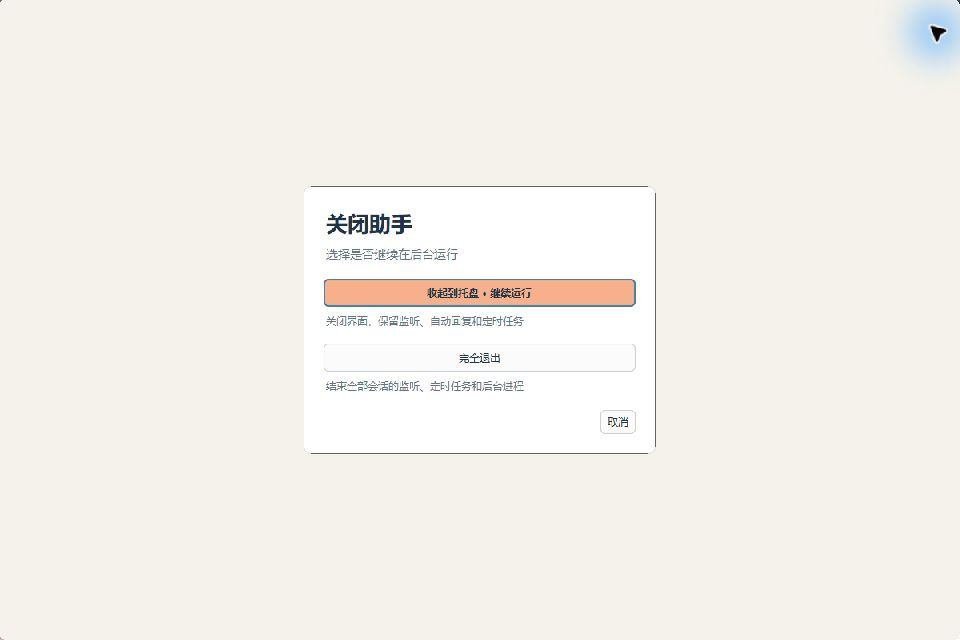
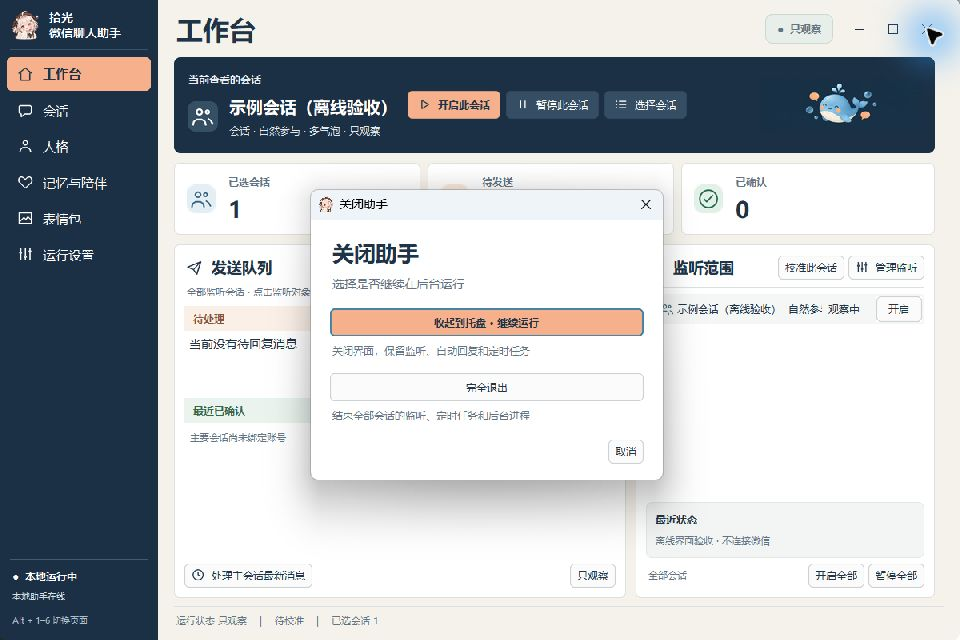
Release v0.2.16: independent close dialog preserves the main page

diff --git a/xiaomao/feedback_ui.py b/xiaomao/feedback_ui.py
@@ -1,4 +1,4 @@
-"""In-window action feedback. Never activates a window or interrupts typing."""
+"""Passive action feedback and a user-invoked, owned close dialog."""
 import re
 import tkinter as tk
 from time import monotonic
@@ -6,16 +6,20 @@ from tkinter import ttk
 from .workspace_ui import PAPER, GREEN, INK, LINE, button, label
 
 
-class CloseChoice(tk.Frame):
-    """In-window close chooser; cancellation never changes worker state."""
+class CloseChoice(tk.Toplevel):
+    """Small owned window; the underlying page and worker stay unchanged."""
     def __init__(self,root,*,background_available=True):
-        from .workspace_ui import BG,MUTED,card
-        super().__init__(root,bg=BG)
+        from .workspace_ui import MUTED
+        super().__init__(root,bg=PAPER)
+        self.withdraw()
+        self.title('关闭助手')
+        self.transient(root)
+        self.resizable(False,False)
         self.result=None;self._job=None;self._closing=False
         self.previous_focus=root.focus_get()
         self.previous_grab=root.grab_current()
-        self.place(relwidth=1,relheight=1);self.lift()
-        box=self.box=card(self,pad=24,radius=9)
+        box=self.box=tk.Frame(self,bg=PAPER,padx=24,pady=20)
+        box.pack(fill='both',expand=True)
         box.columnconfigure(0,weight=1)
         label(box,'关闭助手',20,bold=True).grid(row=0,column=0,sticky='w')
         label(box,'选择是否继续在后台运行',11,color=MUTED).grid(row=1,column=0,sticky='w',pady=(5,18))
@@ -29,9 +33,18 @@ class CloseChoice(tk.Frame):
         label(box,'结束全部会话的监听、定时任务和后台进程',10,color=MUTED,wraplength=370).grid(row=5,column=0,sticky='w',pady=(5,18))
         self.cancel_button=button(box,'取消',lambda:self.choose(None),compact=True)
         self.cancel_button.grid(row=6,column=0,sticky='e')
-        box.place(relx=.5,rely=.5,anchor='center',width=440,y=12)
-        self._escape=root.bind('<Escape>',lambda _:(self.choose(None),'break')[1],add='+')
+        self.protocol('WM_DELETE_WINDOW',lambda:self.choose(None))
+        self.bind('<Escape>',lambda _:(self.choose(None),'break')[1])
         self.bind('<Destroy>',self._destroyed,add='+')
+        self.update_idletasks()
+        width=max(440,self.winfo_reqwidth());height=self.winfo_reqheight()
+        x=root.winfo_rootx()+(root.winfo_width()-width)//2
+        y=root.winfo_rooty()+(root.winfo_height()-height)//2
+        self.geometry(f'{width}x{height}{x:+d}{y:+d}')
+        self._fade=True
+        try:self.attributes('-alpha',0.)
+        except tk.TclError:self._fade=False
+        self.deiconify()
         self.grab_set()
         (self.background_button if background_available else self.cancel_button).focus_set()
         self.started=monotonic();self._animate()
@@ -39,8 +52,9 @@ class CloseChoice(tk.Frame):
     def _animate(self):
         self._job=None
         fraction=min(1.,(monotonic()-self.started)/.13)
-        self.box.place_configure(y=round(12*(1-fraction)**3))
-        if fraction<1:self._job=self.after(16,self._animate)
+        if self._fade:
+            self.attributes('-alpha',1-(1-fraction)**3)
+            if fraction<1:self._job=self.after(16,self._animate)
 
     def choose(self,value):
         if self._closing:return
@@ -50,7 +64,6 @@ class CloseChoice(tk.Frame):
     def _destroyed(self,event):
         if event.widget is not self:return
         if self._job is not None:self.after_cancel(self._job)
-        self.master.unbind('<Escape>',self._escape)
         if self.grab_current() is self:self.grab_release()
         if self.previous_grab is not None and self.previous_grab.winfo_exists():self.previous_grab.grab_set()
         if self.previous_focus is not None and self.previous_focus.winfo_exists():self.previous_focus.focus_set()

diff --git a/tests/test_panel.py b/tests/test_panel.py
@@ -165,6 +165,29 @@ def test_close_dialog_escape_cancels_and_missing_tray_disables_background(native
     finally:root.destroy()
 
 
+def test_close_choice_is_small_owned_window_and_leaves_page_visible(native_root):
+    import tkinter as tk
+    from xiaomao.feedback_ui import CloseChoice
+    root=tk.Toplevel(native_root);root.geometry('1000x740+3200+1800')
+    page=tk.Frame(root);page.pack(fill='both',expand=True)
+    original=tk.Entry(page);original.pack();original.insert(0,'未保存的页面内容')
+    root.update();before=root.geometry()
+    try:
+        dialog=CloseChoice(root);root.update()
+        assert dialog.winfo_toplevel() is dialog
+        assert str(dialog.transient())==str(root)
+        assert root.geometry()==before and page.winfo_ismapped()
+        assert original.get()=='未保存的页面内容'
+        assert 400<=dialog.winfo_width()<=520
+        assert 250<=dialog.winfo_height()<=450
+        assert abs(dialog.winfo_rootx()+dialog.winfo_width()/2-root.winfo_rootx()-root.winfo_width()/2)<15
+        root.tk.call(dialog.protocol('WM_DELETE_WINDOW'));root.update()
+        assert dialog.result is None and not dialog.winfo_exists()
+        assert root.winfo_exists() and page.winfo_ismapped()
+        assert root.grab_current() is None
+    finally:root.destroy()
+
+
 @pytest.mark.parametrize('discard',[True,False])
 def test_explicit_exit_confirms_unsaved_session_changes(tmp_path,monkeypatch,discard):
     p,events=panel(tmp_path)

diff --git a/README.md b/README.md
@@ -10,9 +10,9 @@
 
 模块化人格的颜文字参考扩充为 13 类、208 个，按近期本会话已发内容避开重复画法，保留同类情绪与正文，不给没有颜文字的回复强行追加。支持把参考库加入自定义人格；原人格模块和历史版本独立保留。详见 [修复说明与验证范围](docs/qa/2026-11-07-sticker-recovery-and-expression.md)。
 
-v0.2.15 右上角 **×** 会先弹出关闭选项：**收起到托盘** 关闭界面并保留后台运行；**完全退出** 结束所有会话的监听、回复、定时任务及后台进程；**取消** 返回原页面。退出期间显示进度，失败时保留面板提示原因，未保存的修改会先提示。多会话人格与关怀上下文的修复见 [验证说明](docs/qa/2026-11-07-care-persona-consistency.md)。
+v0.2.16 右上角 **×** 弹出独立的小窗口，原页面保持可见，不再整页覆盖。可选 **收起到托盘**，关闭界面并保留后台运行；**完全退出**，结束所有会话的监听、回复、定时任务及后台进程；**取消**，返回原页面。弹窗自身的 × 和 Esc 都只取消关闭。退出期间显示进度，失败时保留面板提示原因，未保存的修改会先提示。多会话人格与关怀上下文的修复见 [验证说明](docs/qa/2026-11-07-care-persona-consistency.md)。
 
-![v0.2.15 实机关闭选项：收起到托盘、完全退出、取消](docs/screenshots/close-options.jpg)
+![v0.2.16 独立关闭弹窗实机截图（离线验收配置，无真实联系人）](docs/screenshots/close-options.jpg)
 
 ![工作台，显示主要会话、待发送消息与监听范围](docs/screenshots/workspace.png)
 
